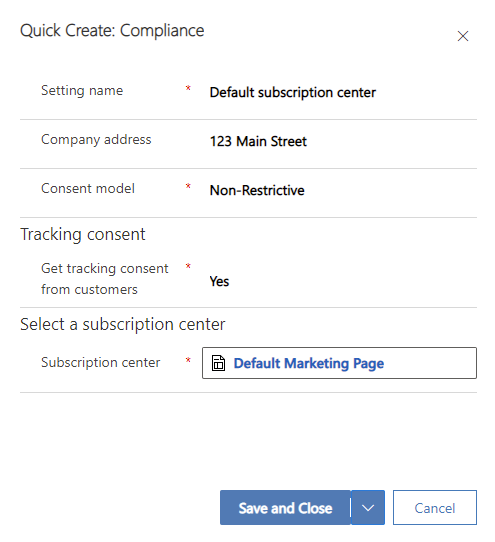
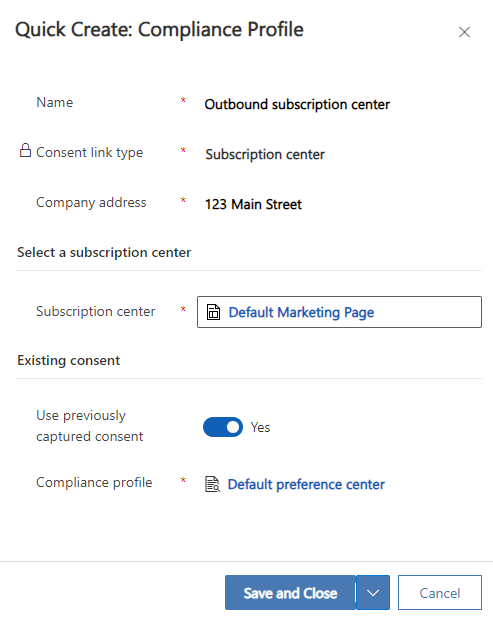
update subscription center guidance, screen shots

diff --git a/ci-docs/journeys/real-time-marketing-outbound-subscription.md b/ci-docs/journeys/real-time-marketing-outbound-subscription.md
@@ -22,39 +22,45 @@ This article explains how to use outbound marketing subscription centers in real
 
 ## Prerequisites
 
-To use outbound marketing subscription centers in real-time journeys, you must first create at least one subscription center in outbound marketing.
-
-### Create subscription centers in outbound marketing
-
-If you haven’t already, [create your subscription centers](set-up-subscription-center.md) in outbound marketing.
+To use outbound marketing subscription centers in real-time journeys, you must first create at least one subscription center in outbound marketing. If you haven’t already, [create your subscription centers](set-up-subscription-center.md) in outbound marketing.
 
 ## Set up subscription centers in Customer Insights - Journeys
 
 In **Settings**, connect the outbound marketing subscription center to Customer Insights - Journeys compliance settings:
 
 1. Go to **Settings** > **Customer engagement** > **Compliance**.
-1. Select **+ New setting** in the top toolbar, then select **+ With subscription center** from the dropdown.
+1. Select **+ New Profile** in the top toolbar, then select **+ With subscription center** from the dropdown.
 
     > [!div class="mx-imgBorder"]
     > ![Screenshot of the new settings dropdown.](media/outbound-subscription-dropdown.png "Screenshot of the new settings dropdown")
 
 1. A pane titled "Quick Create: Compliance" will appear. Fill out the following settings:
-    1. **Setting name**: Select a meaningful name that will be easy to identify.
+    1. **Name**: Select a meaningful name that will be easy to identify for users creating emails.
     1. **Company address**: The address that is used in the email footer.
-    1. **Consent model**:
-        - *Restrictive*: If consent isn't specified, assume it isn't allowed.
-        - *Non-restrictive*: If consent isn't specified, assume it's allowed.
-    1. **Tracking consent**: Enable this option to get tracking consent from customers.
     1. **Select a subscription center**: Select the subscription center you set up in outbound marketing.
-
+    1. **Existing consent: (Optional)** Select an existing compliance profile from which you would like to share consent with this profile. If there is already a compliance profile (e.g. preference center, preference page) that has captured consent for the same line of business as the subscription center you're setting up, it's recommended that you select that compliance profile. By sharing existing consent, the two compliance profiles will share the same commercial and transactional consent purposes, linking consent captured between the two profiles.
         > [!div class="mx-imgBorder"]
-        > ![Screenshot of the quick create pane.](media/outbound-subscription-quick-create.png "Screenshot of the quick create pane")
+        > ![Screenshot of the subscription center compliance profile quick create pane.](media/outbound-subscription-quick-create.png "Screenshot of the quick create pane")
 
     1. Select **Save and close**.
 
-## Use a subscription center in a Customer Insights - Journeys email
+## Subscription center consent enforcement
 
-Now you can use the subscription center you've set up in a Customer Insights - Journeys email. To do so, follow the steps below.
+> [!IMPORTANT]
+> By default, real-time journeys check the contact's `DoNotEmail`, `DoNotBulkEmail`, and `DoNotTrack` fields when outbound marketing is installed. These checks are performed to match outbound marketing's consent enforcement behavior and aid in the transition from outbound marketing to real-time journeys. To learn more, visit [Manage user compliance settings in Customer Insights - Journeys](real-time-marketing-compliance-settings.md)
+
+Emails sent with subscription center compliance profiles enforce consent in real-time journeys by checking contact point consent records and applying the configured enforcement model. The communication purposes and their configured **enforcement model** will impact if an email is sent to a contact's email address. The tracking purpose's **enforcement model** will control if tracking links and pixels are included in emails sent from real-time marketing. The contact point consent checks are done in addition to checking the fields on the contact. To learn more about purposes, contact point consent, and enforcement models, visit [Manage user compliance settings in Customer Insights - Journeys](real-time-marketing-compliance-settings.md)
+
+For most customers, the default purpose **enforcement model** settings will lead to real-time journey consent enforcement to being identical to the enforcement of the outbound journey. However, if you need to make changes, you can do so by editing the purposes in the compliance profile settings.
+
+> [!div class="mx-imgBorder"]
+> ![Screenshot of updating the consent purposes of a subscription center.](media/outbound-subscription-compliance-purposes.png "Screenshot of updating the consent purposes of a subscription center.")
+
+## Use a subscription center compliance profile in email
+
+When you use a subscription center compliance profile in a real-time journey email, the system will replace `{{PreferenceCenter}}` personalization tokens in the email with a link to the outbound marketing subscription center defined in the compliance profile. Similarly, `{{CompanyAddress}}` personalization tokens will be replaced with the address configured in the compliance profile.
+
+To use a subscription center compliance profile in emails sent from real-time journeys, follow the steps below.
 
 1. Open or create a new email message in the Customer Insights - Journeys email editor.
 1. Select the email header and go to **Email Settings** in the right pane.
@@ -66,7 +72,9 @@ Now you can use the subscription center you've set up in a Customer Insights - J
 ### See also
 
 [Outbound marketing compliance settings](privacy-use-features.md)
+
 [Manage user compliance settings in Customer Insights - Journeys](real-time-marketing-compliance-settings.md)
+
 [Manage consent for email and text messages in Customer Insights - Journeys](real-time-marketing-email-text-consent.md)
 
 [!INCLUDE [footer-include](./includes/footer-banner.md)]
